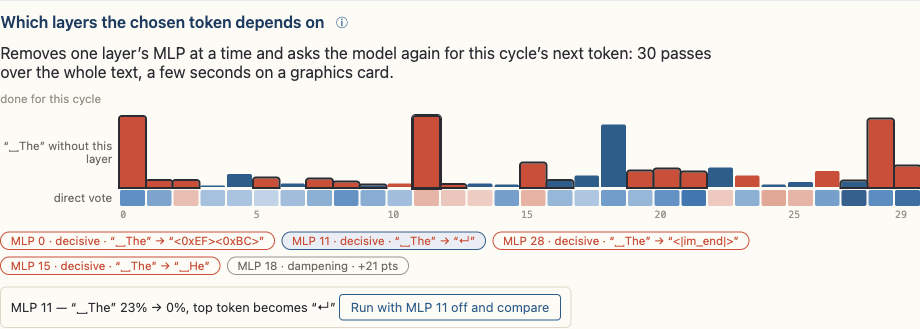
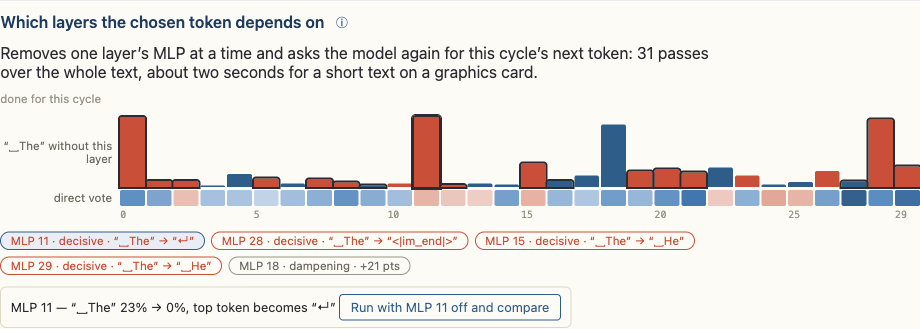
docs: backlog items 24 and 25, retake knockouts screenshot

diff --git a/docs/BACKLOG.md b/docs/BACKLOG.md
@@ -216,6 +216,16 @@ they are IDs, not positions.
   End-to-end: tests select `.controls` by class and duplicate setup; row
   stacking at 390 px is not asserted. Also (pre-existing): old v5 neuron
   files stay in the Cache Storage. *(#17 final review, 2026-10-21)*
+- [ ] **#24 Cycle buttons land on the Sampler's append event** — the
+  previous/next cycle buttons move to the append event of the Sampler
+  stage, so after clicking Layers, "next cycle" lands on the same cycle
+  again instead of the following one. Pre-existing; found while checking
+  the Knockouts card. *(#18, 2026-11-01)*
+- [ ] **#25 Time a knockout sweep on a long prompt** — the card says a
+  sweep takes "about two seconds for a short text", but its 31 passes run
+  without the KV cache over the whole text, so a prompt near 500 tokens
+  may be far slower. Measure it; if so, make the caption depend on the
+  length. *(#18 follow-up, 2026-11-01)*
 - [ ] **#9 Mobile layout** — the app is desktop-first; a narrow-viewport pass
   is substantial design work for an audience that mostly explores on
   laptops. *(v1 spec, out of scope)*
